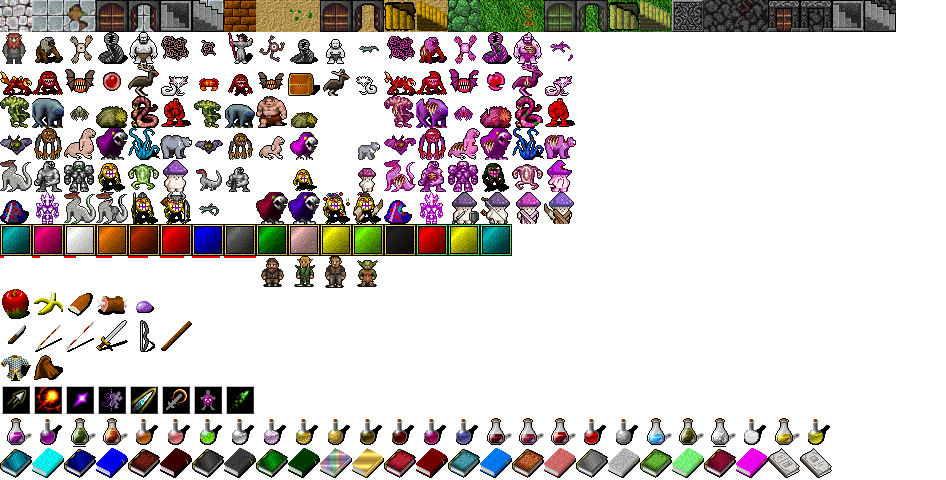
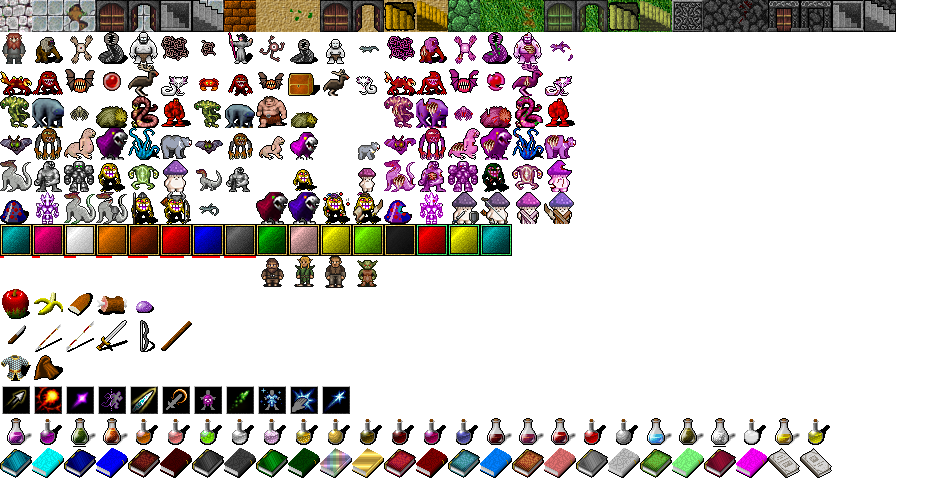
add book of ice and some ice spells

Changed region(s): [[0.2452, 0.7812, 0.3679, 0.875]]

diff --git a/assets/skills.js b/assets/skills.js
@@ -97,6 +97,52 @@ Game.SkillRepository.define('Magicdart('+i+')', {
   }
 });
 
+Game.SkillRepository.define('Freeze('+i+')', {
+  level: i,
+  rank: 1,
+  name: "Freeze",
+  Symbol: "freeze",
+  target: "range",
+  type: "spell",
+  subtype: "damage",
+  options: {
+    cost: 2 + i*2,
+    description: "You doing freezing touch with "+i+" - "+i*8+" dmg.",
+    stat: "int",
+    range: 1,
+    radius: 0
+  },
+  formulas: {
+    mindmg: 0,
+    maxdmg: 0,
+    mindmglvl: 1,
+    maxdmglvl: 8
+  }
+});
+
+Game.SkillRepository.define('Throw ice('+i+')', {
+  level: i,
+  rank: 2,
+  name: "Throw ice",
+  Symbol: "throwice",
+  target: "range",
+  type: "spell",
+  subtype: "damage",
+  options: {
+    cost: 6 + i*2,
+    description: "You throw ice with "+i*2+" - "+i*(8+i*2)+" dmg.",
+    stat: "int",
+    range: 4+i,
+    radius: 0
+  },
+  formulas: {
+    mindmg: 0,
+    maxdmg: 0,
+    mindmglvl: 2,
+    maxdmglvl: (8+i*2)
+  }
+});
+
 Game.SkillRepository.define('Blink('+i+')', {
   level: i,
   rank: 1,
@@ -137,6 +183,28 @@ Game.SkillRepository.define('Power('+i+')', {
     duration: 5+i
   }
 });
+
+Game.SkillRepository.define('Ice armor('+i+')', {
+  level: i,
+  rank: 3,
+  name: "Ice armor",
+  Symbol: "icearmor",
+  target: "self",
+  type: "spell",
+  subtype: "charm",
+  options: {
+    cost: 10 + i*3,
+    description: "Increase your armor on "+(5+i*2)+" for "+(19+i)+" turns.",
+    stat: "int",
+    range: 0,
+    radius: 0
+  },
+  formulas: {
+    armor: (5+i*2),
+    duration: (19+i)
+  }
+});
+
 
 Game.SkillRepository.define('Weakness('+i+')', {
   level: i,

diff --git a/assets/skill.js b/assets/skill.js
@@ -207,6 +207,7 @@ Game.addAffect = function(x,y,level,affect,actor) {
         if (key == "con") Game.entity[i].Con += affect.formulas[key];
         if (key == "int") Game.entity[i].Int += affect.formulas[key];
         if (key == "agi") Game.entity[i].Agi += affect.formulas[key];
+        if (key == "armor") Game.entity[i].Armor += affect.formulas[key];
       }
       Game.entity[i].affects.push(affect);
       Game.entity[i].affects[Game.entity[i].affects.length -1].last = Game.entity[i].affects[Game.entity[i].affects.length -1].formulas.duration;
@@ -226,6 +227,7 @@ Game.removeAffect = function(x,y,level,num) {
         if (key == "con") Game.entity[i].Con -= value;
         if (key == "int") Game.entity[i].Int -= value;
         if (key == "agi") Game.entity[i].Agi -= value;
+        if (key == "armor") Game.entity[i].Armor -= value;
       }
       Game.messagebox.sendMessage("The "+Game.entity[i].name+" now is not affected by "+ Game.entity[i].affects[num].name+"("+Game.entity[i].affects[num].level+").");  
       Game.entity[i].affects.splice(num,1);

diff --git a/assets/items.js b/assets/items.js
@@ -293,3 +293,16 @@ Game.ItemRepository.define('bookofsmallevil', {
     "Poison dart":1,
   }
 });
+
+Game.ItemRepository.define('bookofice', {
+  name: "book of ice",
+  Symbol: "book"+(Math.floor(Math.random()*25)+1),
+  level: 3,
+  price: 30,
+  type: "book",
+  skills: {
+    Freeze: 1,
+    "Throw ice": 1,
+    "Ice armor": 1,
+  }
+});

diff --git a/assets/index.js b/assets/index.js
@@ -76,6 +76,8 @@ var Game = {
       newitem = Game.ItemRepository.createRandom(1,1);
       Game.inventory.push(newitem);
     }
+    newitem = Game.ItemRepository.create("bookofice");
+    Game.inventory.push(newitem);
     this.drawAll();
     this.engine = new ROT.Engine(scheduler);
     this.engine.start();

diff --git a/assets/tilemap.js b/assets/tilemap.js
@@ -140,6 +140,9 @@ var gameTilemap = {
   "power": [160,384],
   "weakness": [192,384],
   "poisondart": [224,384],
+  "icearmor": [256,384],
+  "freeze": [288,384],
+  "throwice": [320,384],
 //armor
   "simplecloak": [32,352],
   "chainmail": [0,352]
